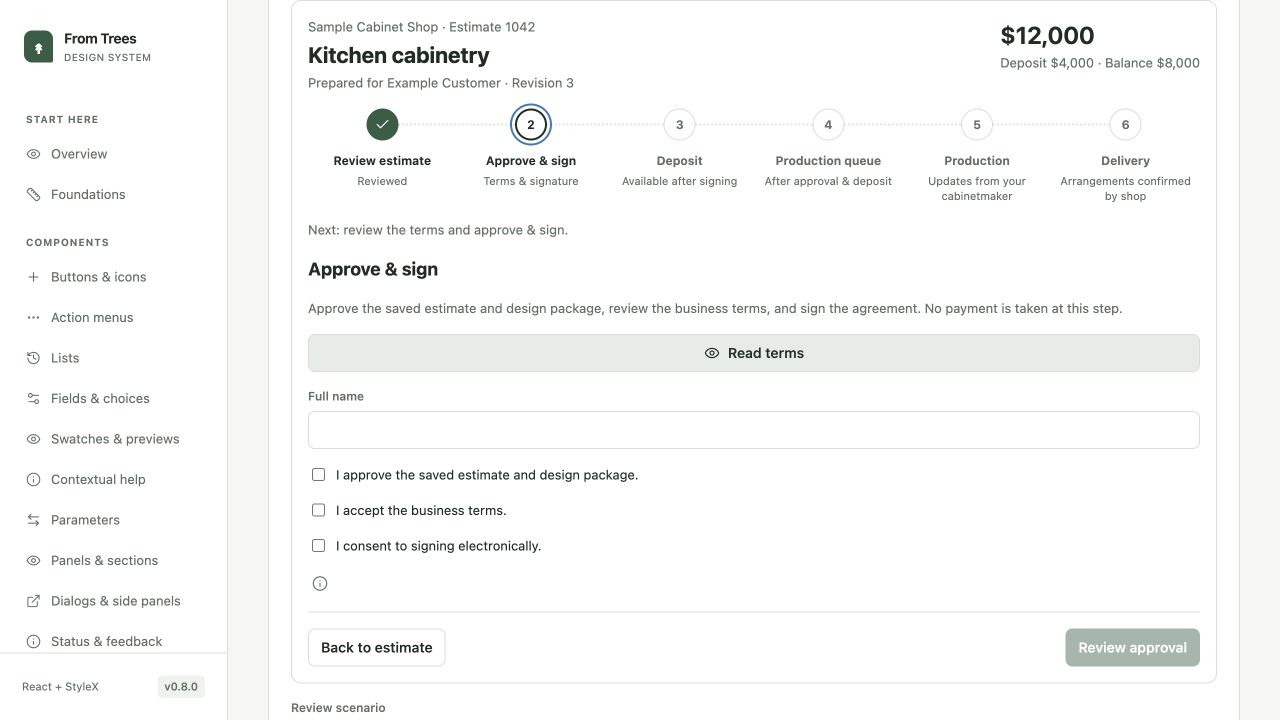
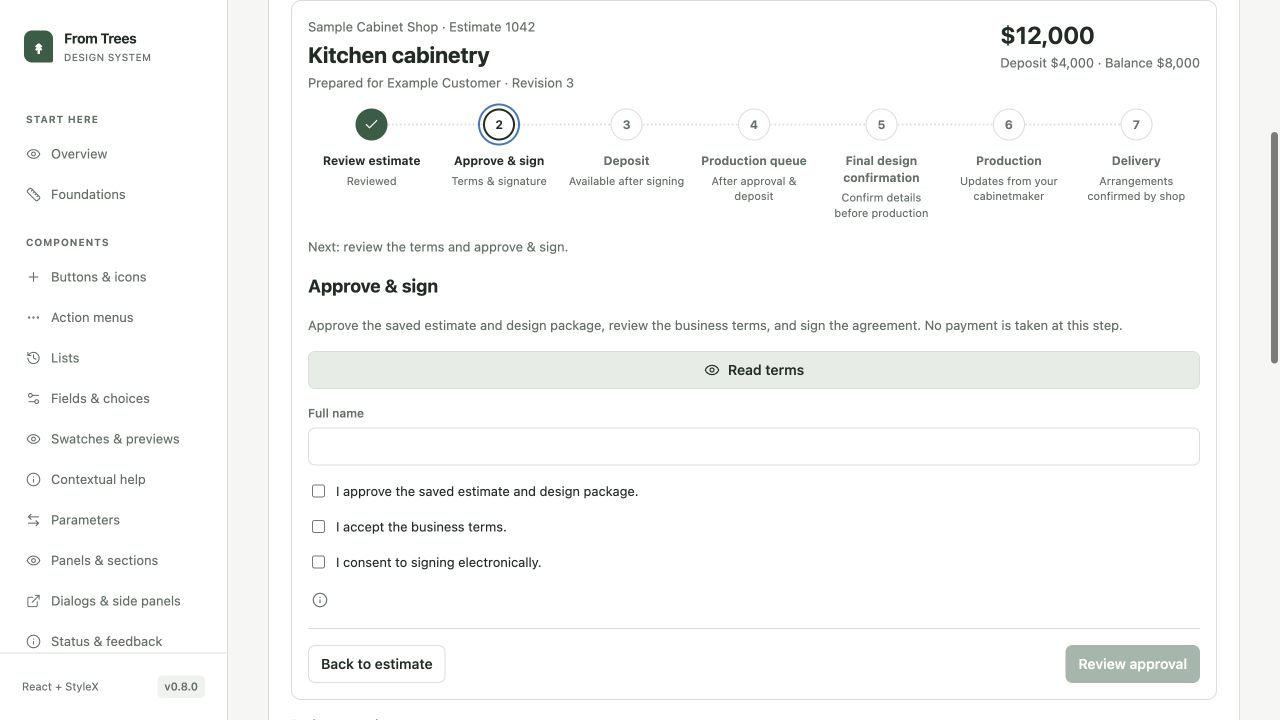
Add final design confirmation before production

diff --git a/apps/catalog/src/CustomerJourneyPrototype.tsx b/apps/catalog/src/CustomerJourneyPrototype.tsx
@@ -185,6 +185,13 @@ export function CustomerJourneyPrototype() {
         : "After approval & deposit",
     },
     {
+      id: "final-design",
+      label: "Final design confirmation",
+      status: "upcoming",
+      available: true,
+      detail: "Confirm details before production",
+    },
+    {
       id: "production",
       label: "Production",
       status: "upcoming",
@@ -283,18 +290,24 @@ export function CustomerJourneyPrototype() {
                 ? "Your deposit"
                 : selected === "queue"
                   ? "Production queue"
-                  : selected === "production"
-                    ? "Production"
-                    : "Delivery"}
+                  : selected === "final-design"
+                    ? "Final design confirmation"
+                    : selected === "production"
+                      ? "Production"
+                      : "Delivery"}
         </h3>
-        {["queue", "production", "delivery"].includes(selected) ? (
+        {["queue", "final-design", "production", "delivery"].includes(
+          selected,
+        ) ? (
           <>
             <p {...stylex.props(styles.text)}>
               {selected === "queue"
                 ? "After approval and any required deposit, your cabinetmaker confirms your place in the production queue. A paid deposit alone does not confirm a queue position or start date."
-                : selected === "production"
-                  ? "Your cabinetmaker will confirm when fabrication begins and provide progress updates. This estimate does not currently track production automatically."
-                  : "Your cabinetmaker will contact you to arrange delivery or installation. This estimate does not currently track delivery automatically."}
+                : selected === "final-design"
+                  ? "Before production begins, you and your cabinetmaker will confirm the final drawings, dimensions, materials and details. This is a separate confirmation from approving the estimate. Your cabinetmaker will contact you when the final design is ready to review."
+                  : selected === "production"
+                    ? "Your cabinetmaker will confirm when fabrication begins and provide progress updates. This estimate does not currently track production automatically."
+                    : "Your cabinetmaker will contact you to arrange delivery or installation. This estimate does not currently track delivery automatically."}
             </p>
             <Status>
               Shop updates for this stage are not connected yet. Contact Sample

diff --git a/apps/catalog/src/content.ts b/apps/catalog/src/content.ts
@@ -184,7 +184,7 @@ export const behavior: Partial<Record<PageId, string[]>> = {
     "The shared WorkflowProgress component receives app-defined steps, availability and completion. Navigation never completes approval or payment.",
     "Keep the estimate identity, total and progress above the active stage. Show one focused stage and a short next action, with saved documents available for review.",
     "Review is a local navigation acknowledgment. Signature and payment completion must come from server-confirmed records for this exact estimate revision.",
-    "The full path continues through Production queue, Production and Delivery. Future shop stages remain visible without invented dates or automatic completion.",
+    "The full path continues through Production queue, Final design confirmation, Production and Delivery. Future shop stages remain visible without invented dates or automatic completion.",
     "Card and ACH checkout stay in the existing provider flow. Processing, failure and unresolved payment states must not be presented as paid.",
     "Approval-only estimates omit the payment step. Expired and superseded estimates remain readable, with signing and payment unavailable.",
     "This synthetic catalog flow does not implement legal consent, identity verification, document generation or payment. Preserve those app capabilities in a separate adoption review.",

diff --git a/apps/catalog/test/CustomerJourneyPrototype.test.tsx b/apps/catalog/test/CustomerJourneyPrototype.test.tsx
@@ -101,18 +101,24 @@ it("keeps blocked estimates readable and omits payment for approval-only flows",
   ).not.toBeInTheDocument();
 });
 
-it("shows all six stages without claiming future production or delivery updates", async () => {
+it("shows all seven stages without claiming future production or delivery updates", async () => {
   const user = setup();
   const nav = screen.getByRole("navigation", {
     name: "Your estimate progress",
   });
-  expect(within(nav).getAllByRole("listitem")).toHaveLength(6);
+  expect(within(nav).getAllByRole("listitem")).toHaveLength(7);
   await user.selectOptions(scenario(), "Deposit paid");
   await user.click(
     screen.getByRole("button", { name: /Production queue: Next step/ }),
   );
   expect(
     screen.getByText(/A paid deposit alone does not confirm/),
+  ).toBeInTheDocument();
+  await user.click(
+    screen.getByRole("button", { name: /Final design confirmation: Upcoming/ }),
+  );
+  expect(
+    screen.getByText(/separate confirmation from approving the estimate/),
   ).toBeInTheDocument();
   await user.click(
     screen.getByRole("button", { name: /Production: Upcoming/ }),

diff --git a/docs/customer-estimate-journey.md b/docs/customer-estimate-journey.md
@@ -1,10 +1,10 @@
 # Customer estimate journey · 0.8.0
 
-Review **Patterns → Customer estimates** (`#customer-journey`) before a separate application integration. The path is **Review → Approve & sign → Deposit → Production queue → Production → Delivery**. The last three stages are visible even though shop integrations are not built.
+Review **Patterns → Customer estimates** (`#customer-journey`) before a separate application integration. The path is **Review → Approve & sign → Deposit → Production queue → Final design confirmation → Production → Delivery**. The last four stages are visible even though shop integrations are not built.
 
 ## Shared component
 
-`WorkflowProgress` receives `label`, app-defined `steps`, `selectedId`, and `onSelect`. Each step supplies a stable `id`, concise `label`, `status` (`complete`, `current`, `upcoming`, `attention`), `detail`, and `available`. Selecting a step only navigates; it never changes completion. The selected view and next due step are distinct. Status is conveyed with text and icons, not color alone. The current task uses `aria-current="step"`; unavailable steps are descriptive and not keyboard actions. Steps form one horizontal sequence of numbered circles joined by a dotted line, with completed steps shown as filled checkmarks and labels underneath. On narrow screens all markers remain visible, with the viewed step label below the line instead of six crowded text columns.
+`WorkflowProgress` receives `label`, app-defined `steps`, `selectedId`, and `onSelect`. Each step supplies a stable `id`, concise `label`, `status` (`complete`, `current`, `upcoming`, `attention`), `detail`, and `available`. Selecting a step only navigates; it never changes completion. The selected view and next due step are distinct. Status is conveyed with text and icons, not color alone. The current task uses `aria-current="step"`; unavailable steps are descriptive and not keyboard actions. Steps form one horizontal sequence of numbered circles joined by a dotted line, with completed steps shown as filled checkmarks and labels underneath. On narrow screens all markers remain visible, with the viewed step label below the line instead of seven crowded text columns.
 
 The shared package contains no estimate, signing, payment, queue or delivery schema. The catalog supplies those meanings and a synthetic local state machine.
 
@@ -18,12 +18,14 @@ Deposit checkout must retain both card and ACH and the provider-hosted payment f
 
 ## Future shop stages
 
-Production queue becomes the next stage after approval and any required deposit, but displays **Awaiting shop confirmation**. This does not assert a queue position, a scheduled date or production readiness. Production and Delivery remain upcoming, with explanatory content and a contact route. The UI must not fabricate dates, mark these stages complete, or imply live tracking. Later integrations can supply authoritative queue/production/delivery events to the same generic progress component.
+Production queue becomes the next stage after approval and any required deposit, but displays **Awaiting shop confirmation**. This does not assert a queue position, a scheduled date or production readiness. Final design confirmation, Production and Delivery remain upcoming, with explanatory content and a contact route. The UI must not fabricate dates, mark these stages complete, or imply live tracking. Later integrations can supply authoritative queue/production/delivery events to the same generic progress component.
+
+Final design confirmation is a separate review of final drawings, dimensions, materials and details before fabrication begins. It must not be inferred from initial estimate approval or deposit payment. Its future integration must bind confirmation to the exact final design revision.
 
 ## Scenarios and integration checklist
 
 - Review, prepared agreement, signed/deposit due, open checkout, processing, paid, failed, unresolved payment, no deposit required, expired and superseded versions.
-- Approval-only links omit deposit navigation according to existing feature availability; this must not imply that a financial deposit is waived. Full payment-enabled journeys display all six stages.
+- Approval-only links omit deposit navigation according to existing feature availability; this must not imply that a financial deposit is waived. Full payment-enabled journeys display all seven stages.
 - Expired/superseded versions retain document access and disable new signing/payment. Preserve archive/signed-document behavior and application feature gates.
 - Scope navigation state to business, estimate identity and revision. A new revision must not inherit review acknowledgment or signature completion from another version.
 - Preserve backend eligibility, immutable totals/terms/design snapshots, access controls and internal-cost privacy. No navigation change should mutate a design or create revisions.

diff --git a/docs/roadmap.md b/docs/roadmap.md
@@ -62,4 +62,4 @@ Shared ParameterRow now owns the layout for numeric and component editors. Panel
 
 ## 0.8.0 customer journey exploration
 
-WorkflowProgress and the Customer estimates catalog pattern cover Review → Approve & sign → Deposit → Production queue → Production → Delivery. Customer UI adoption follows confirmation in a separate Cabinitron diff. Queue, production and delivery integrations remain future work; their visible steps must not invent confirmed shop status. The next cleanup priority is the customer estimate/approval/payment journey before the remaining admin surfaces. See [journey review and integration checklist](customer-estimate-journey.md).
+WorkflowProgress and the Customer estimates catalog pattern cover Review → Approve & sign → Deposit → Production queue → Final design confirmation → Production → Delivery. Customer UI adoption follows confirmation in a separate Cabinitron diff. Queue, final design confirmation, production and delivery integrations remain future work; their visible steps must not invent confirmed shop status. The next cleanup priority is the customer estimate/approval/payment journey before the remaining admin surfaces. See [journey review and integration checklist](customer-estimate-journey.md).
